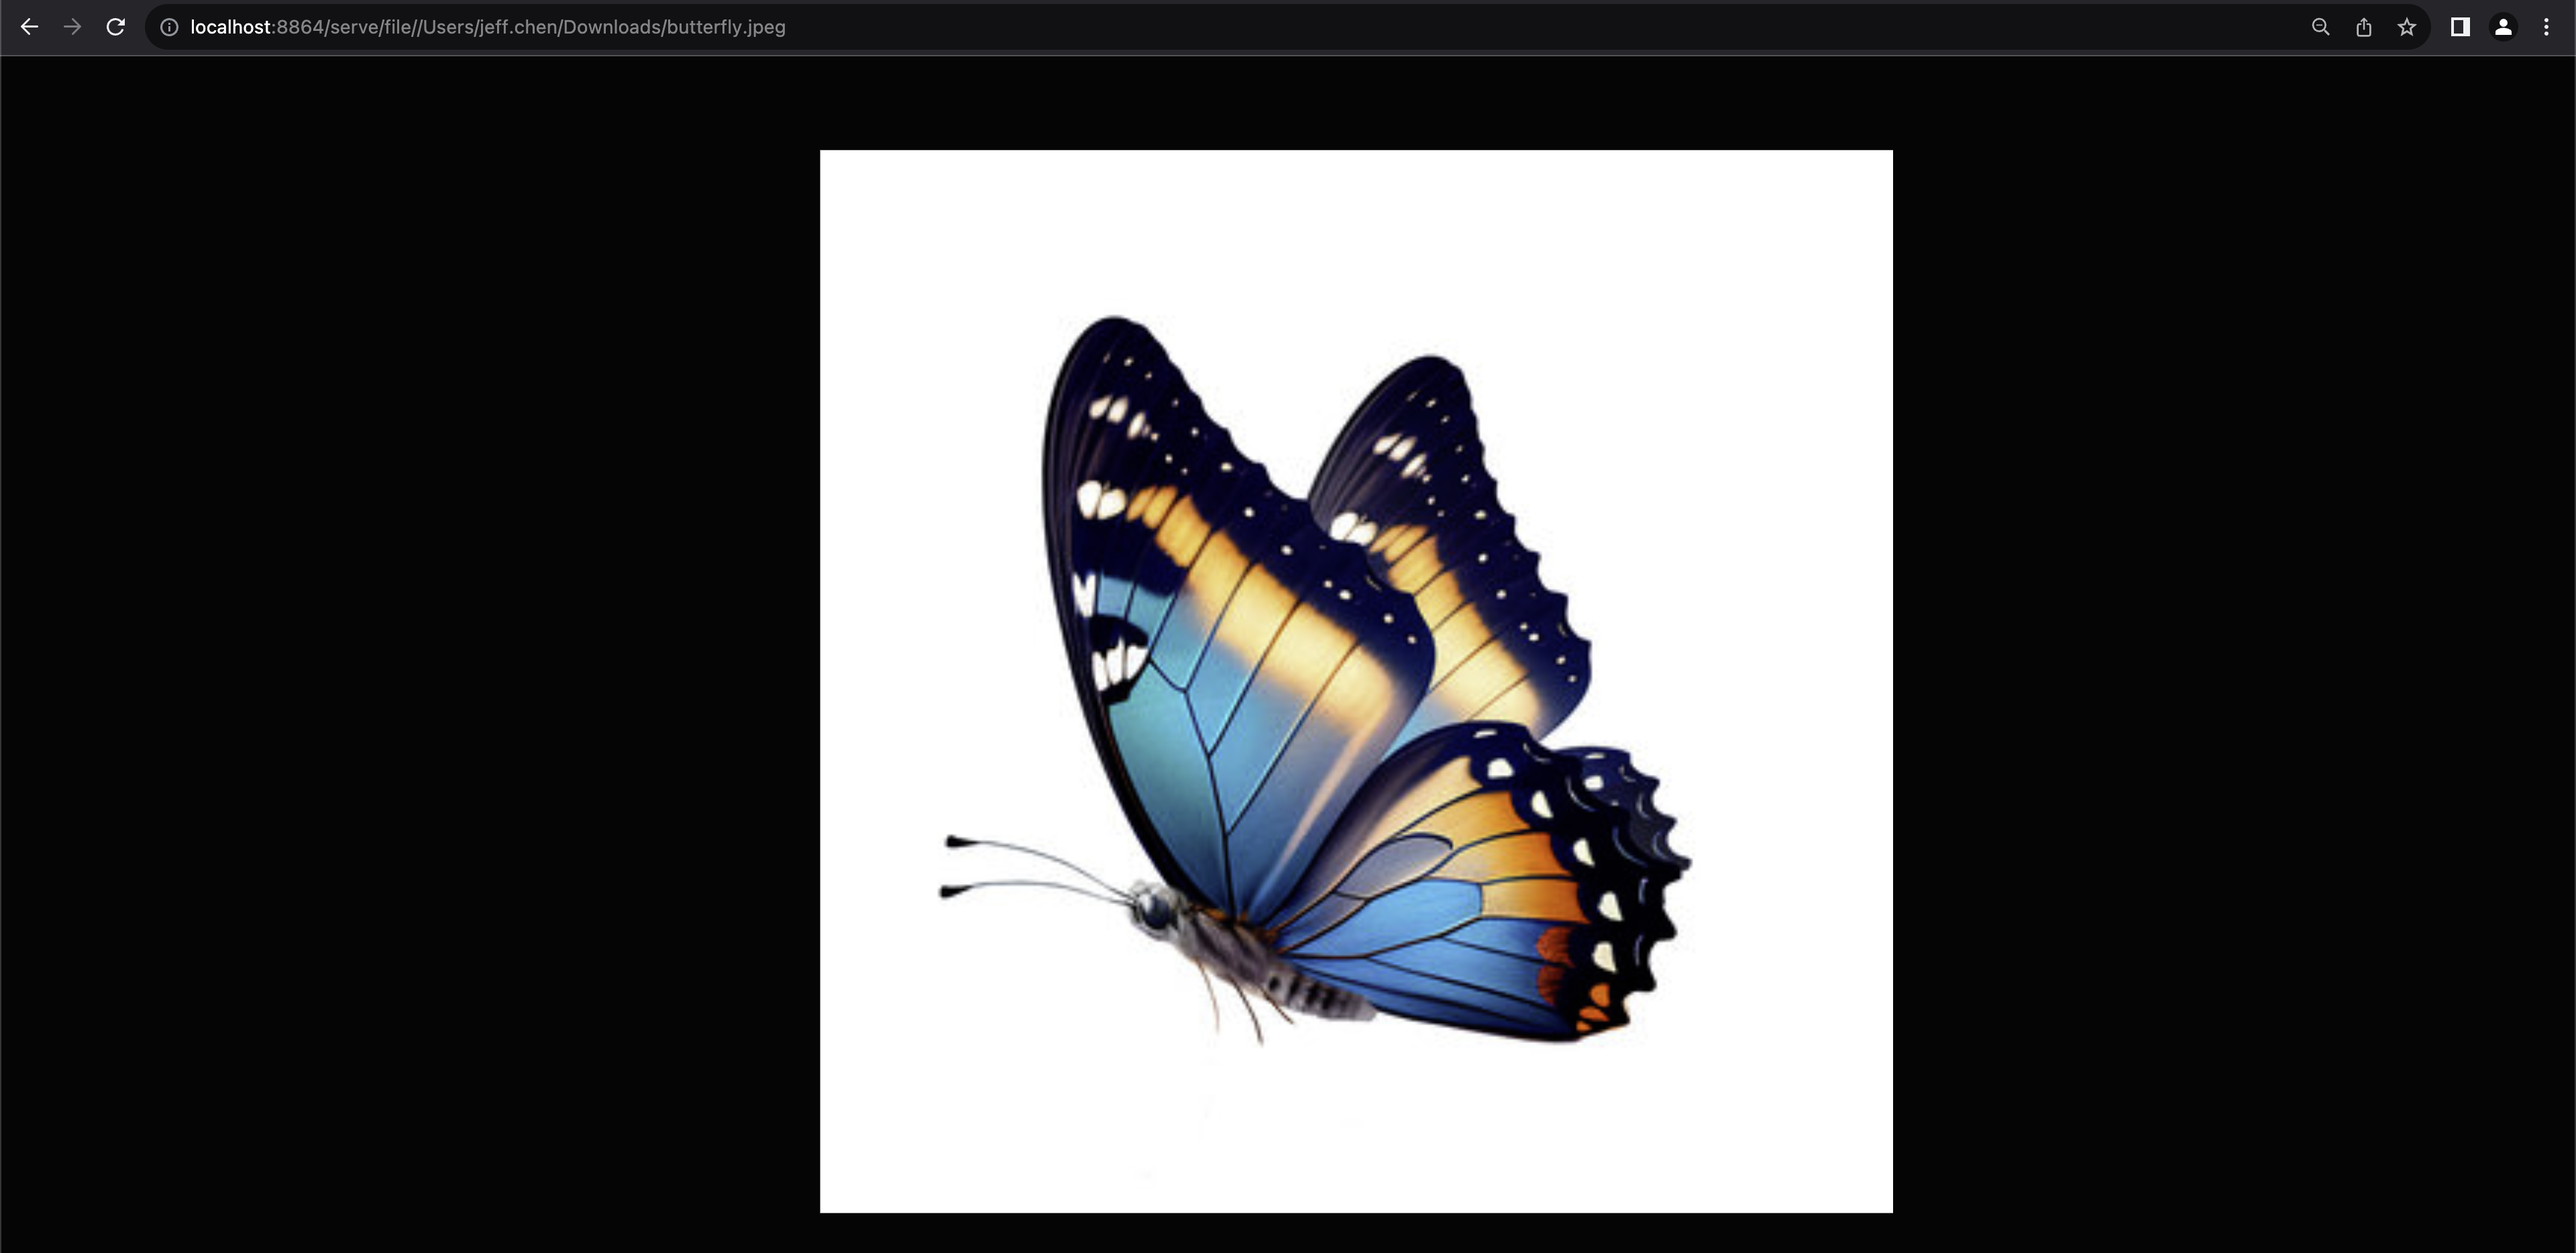
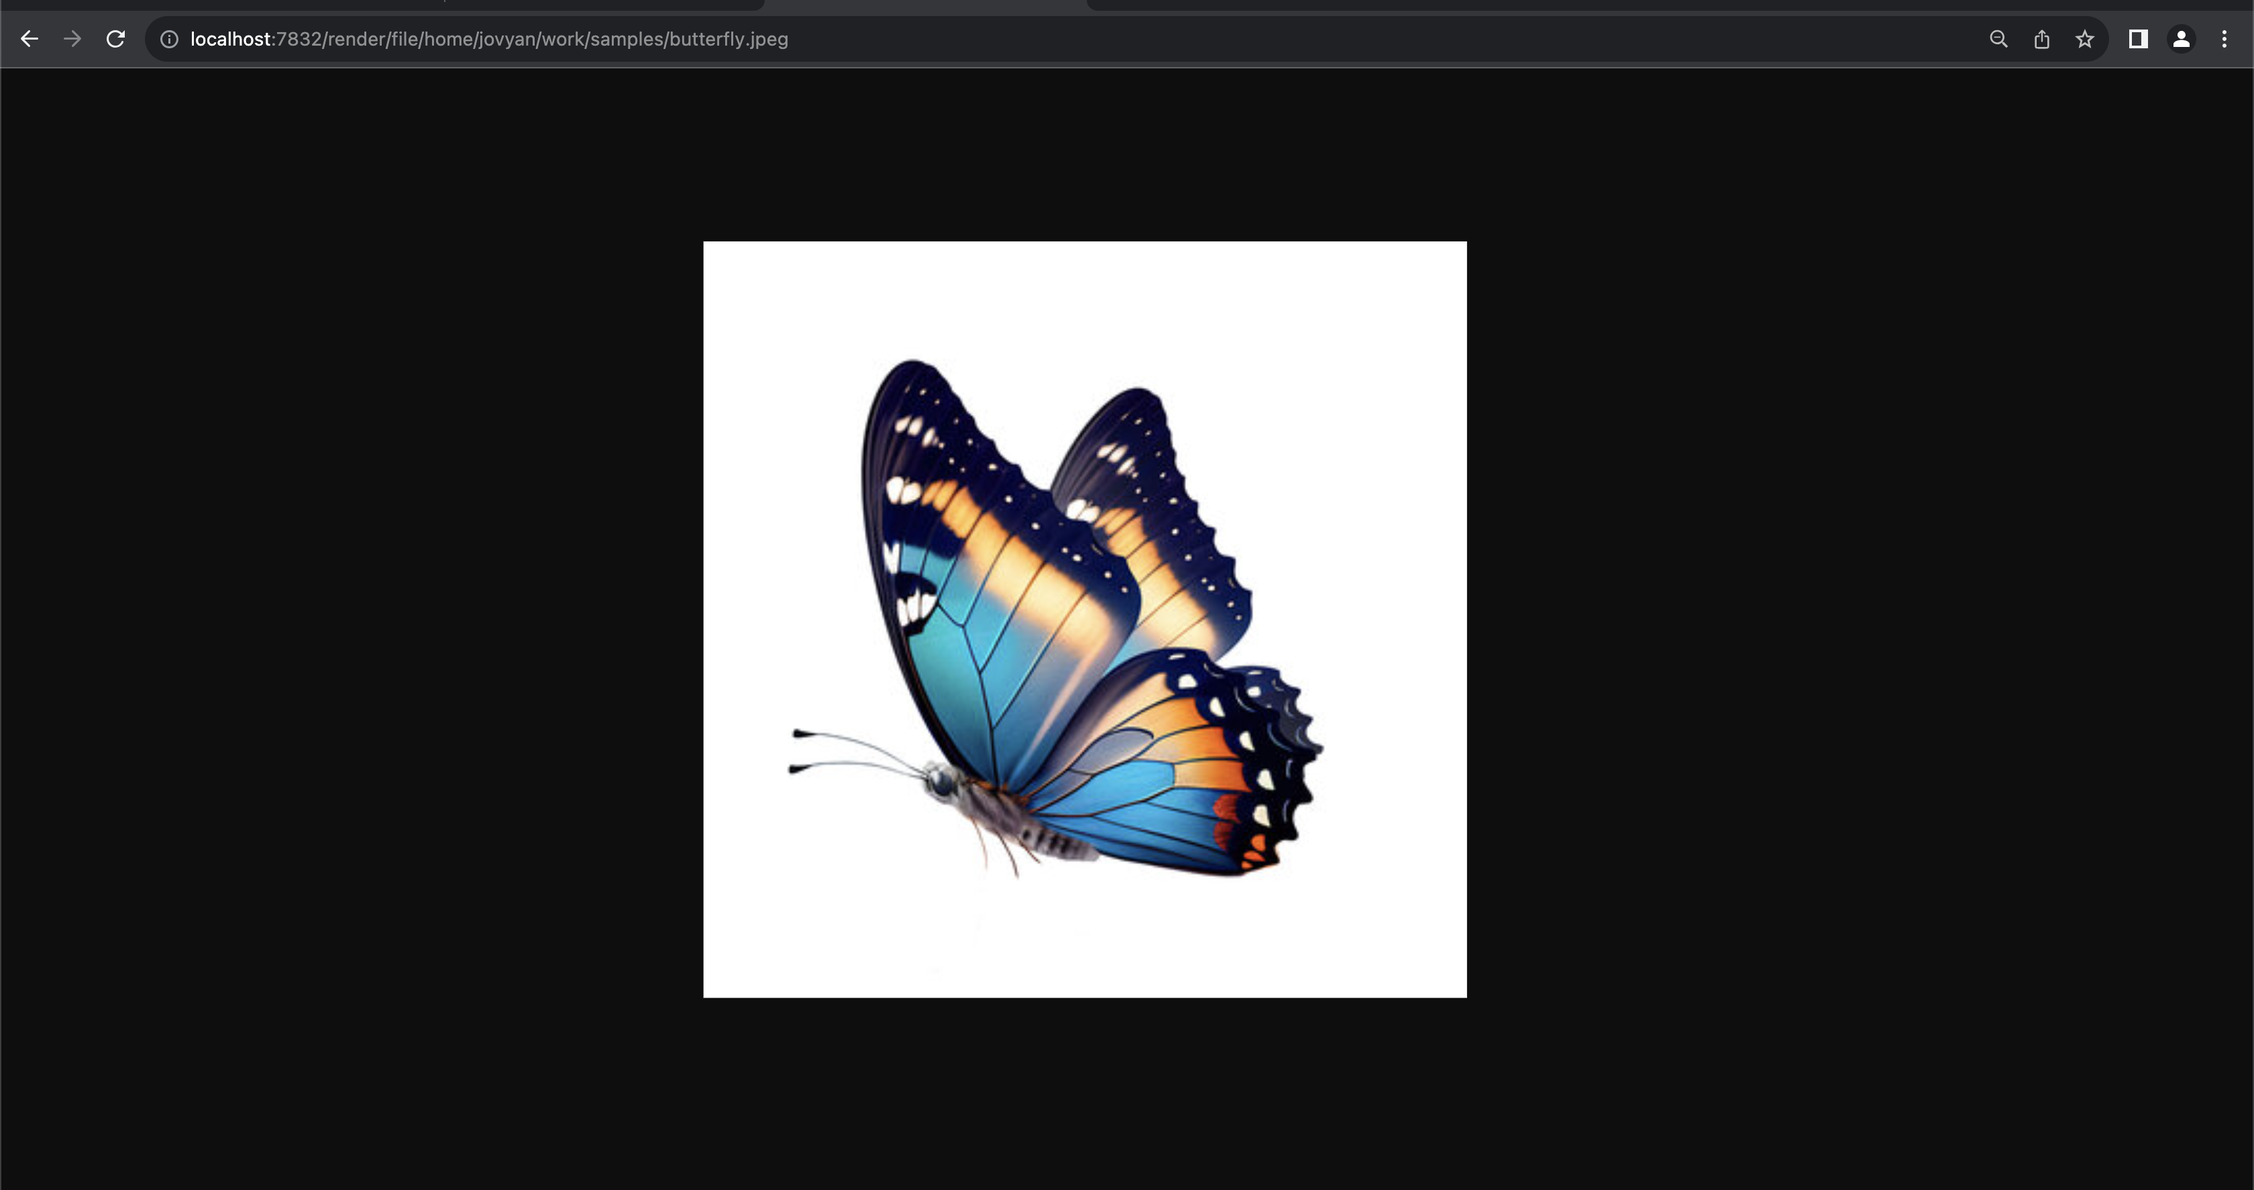
Fix images with updated endpoints

Changed region(s): [[0.3125, 0.093, 0.75, 0.9921], [0.0, 0.0, 1.0, 0.062]]

diff --git a/jupyterlab_polus_render/render-server-ext/README.md b/jupyterlab_polus_render/render-server-ext/README.md
@@ -12,27 +12,27 @@ Jupyter Server Extension serves files and provides a static build of Polus Rende
 - `/render/file/(.+)`: Serves files at a specfied path. Does not serve directories.
 
 # Examples
-For the following examples, JupyterLab is ran locally at `https://localhost:8864/lab`
+For the following examples, JupyterLab is ran locally at `https://localhost:7832/lab`
 
 
 ## Render-UI 
-URL: `http://localhost:8864/static/serve/render-ui/index.html?imageUrl=https://files.scb-ncats.io/pyramids/segmentations/x00_y01_c1.ome.tif&overlayUrl=https://files.scb-ncats.io/pyramids/segmentations/x00_y01_c1_segmentations.json`
+URL: `http://localhost:7832/static/render/render-ui/index.html?imageUrl=http://localhost:7832/render/file//home/jovyan/work/images/4by4large_intensity_image.ome.tif`
 
 <img src="images/renderui-1.png"/>
 
 
-URL: `http://localhost:8864/static/serve/render-ui/index.html?imageUrl=http://localhost:8864/serve/file//Users/jeff.chen/Downloads/test_json/x00_y01_p02_c1.ome.tif&overlayUrl=http://localhost:8864/serve/file//Users/jeff.chen/Downloads/test_json/combined.json`
+URL: `http://localhost:7832/static/render/render-ui/index.html?imageUrl=http://localhost:7832/render/file//home/jovyan/work/images/x00_y01_p02_c1.ome.tif&overlayUrl=http://localhost:7832/render/file//home/jovyan/work/overlays/combined.json`
 
 <img src="images/renderui-2.png"/>
 
 
 ## Image
-URL: `http://localhost:8864/serve/file//Users/jeff.chen/Downloads/butterfly.jpeg`
+URL: `http://localhost:7832/render/file/home/jovyan/work/samples/butterfly.jpeg`
 
 <img src="images/image.png"/>
 
 ## Markdown
-URL: `http://localhost:8864/serve/file//Users/jeff.chen/Downloads/polus-render/Build%20Instructions.md`
+URL: `http://localhost:7832/render/file/home/jovyan/work/samples/README.md`
 
 <img src="images/markdown.png"/>
 
